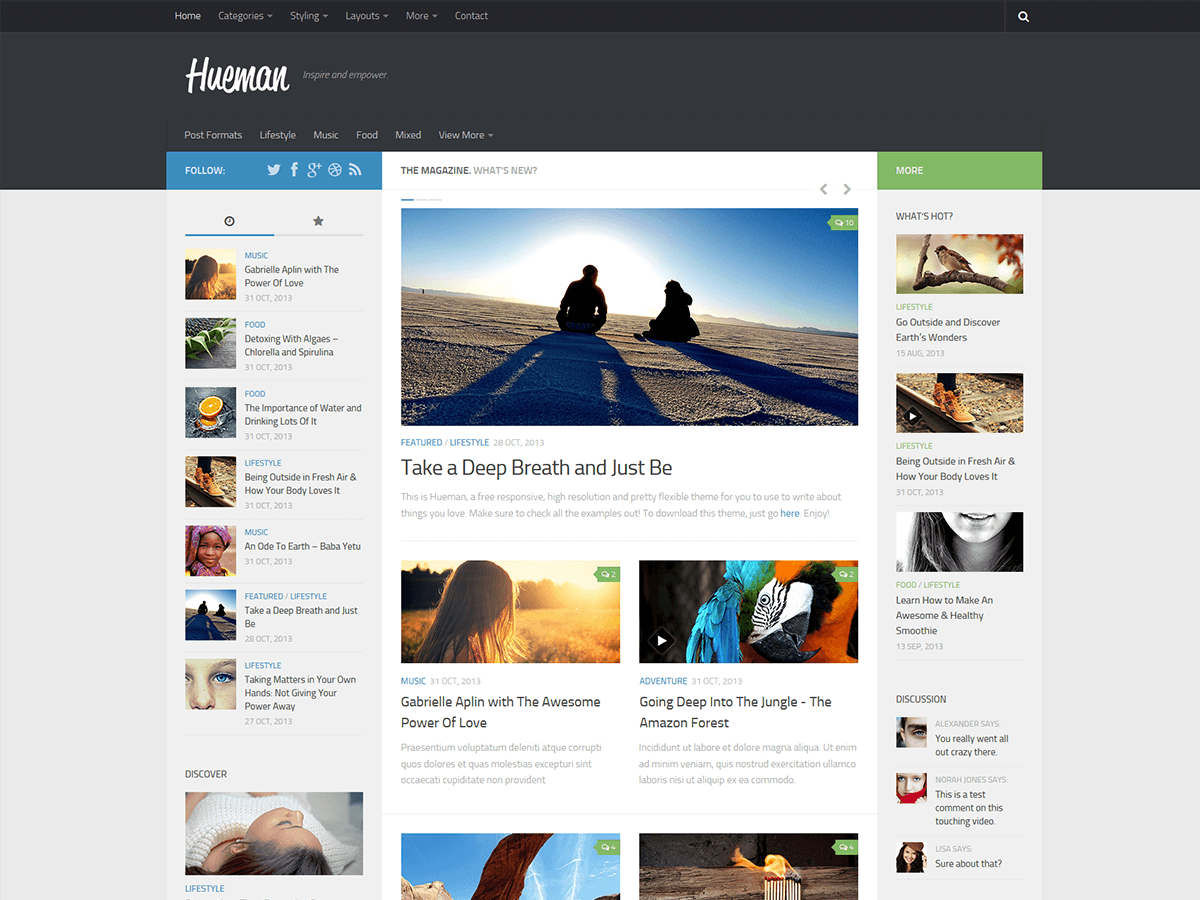
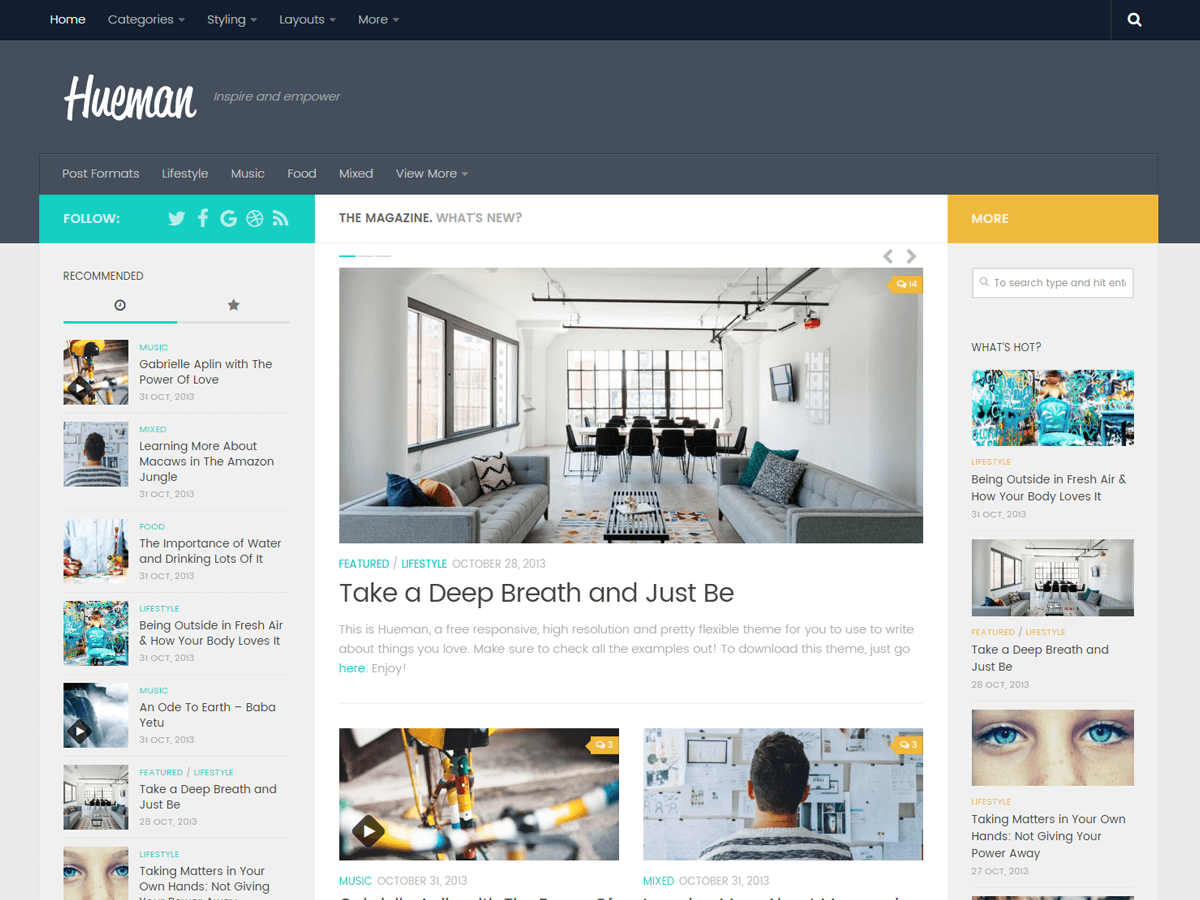
fixed : turn hu_is_real_home() utility into a pluggable function => avoid any conflict with the hueman addons plugin updated : screenshot

diff --git a/functions/init-functions.php b/functions/init-functions.php
@@ -189,14 +189,16 @@ function hu_is_home() {
 
 
 /**
-* helper
+* helper ( can be already defined in hueman-addons)
 * Check if we are really on home, all cases covered
 * @return  bool
 */
-function hu_is_real_home() {
-  return ( is_home() && ( 'posts' == get_option( 'show_on_front' ) || '__nothing__' == get_option( 'show_on_front' ) ) )
-  || ( 0 == get_option( 'page_on_front' ) && 'page' == get_option( 'show_on_front' ) )//<= this is the case when the user want to display a page on home but did not pick a page yet
-  || is_front_page();
+if ( ! function_exists( 'hu_is_real_home') ) {
+  function hu_is_real_home() {
+    return ( is_home() && ( 'posts' == get_option( 'show_on_front' ) || '__nothing__' == get_option( 'show_on_front' ) ) )
+    || ( 0 == get_option( 'page_on_front' ) && 'page' == get_option( 'show_on_front' ) )//<= this is the case when the user want to display a page on home but did not pick a page yet
+    || is_front_page();
+  }
 }
 
 /**
